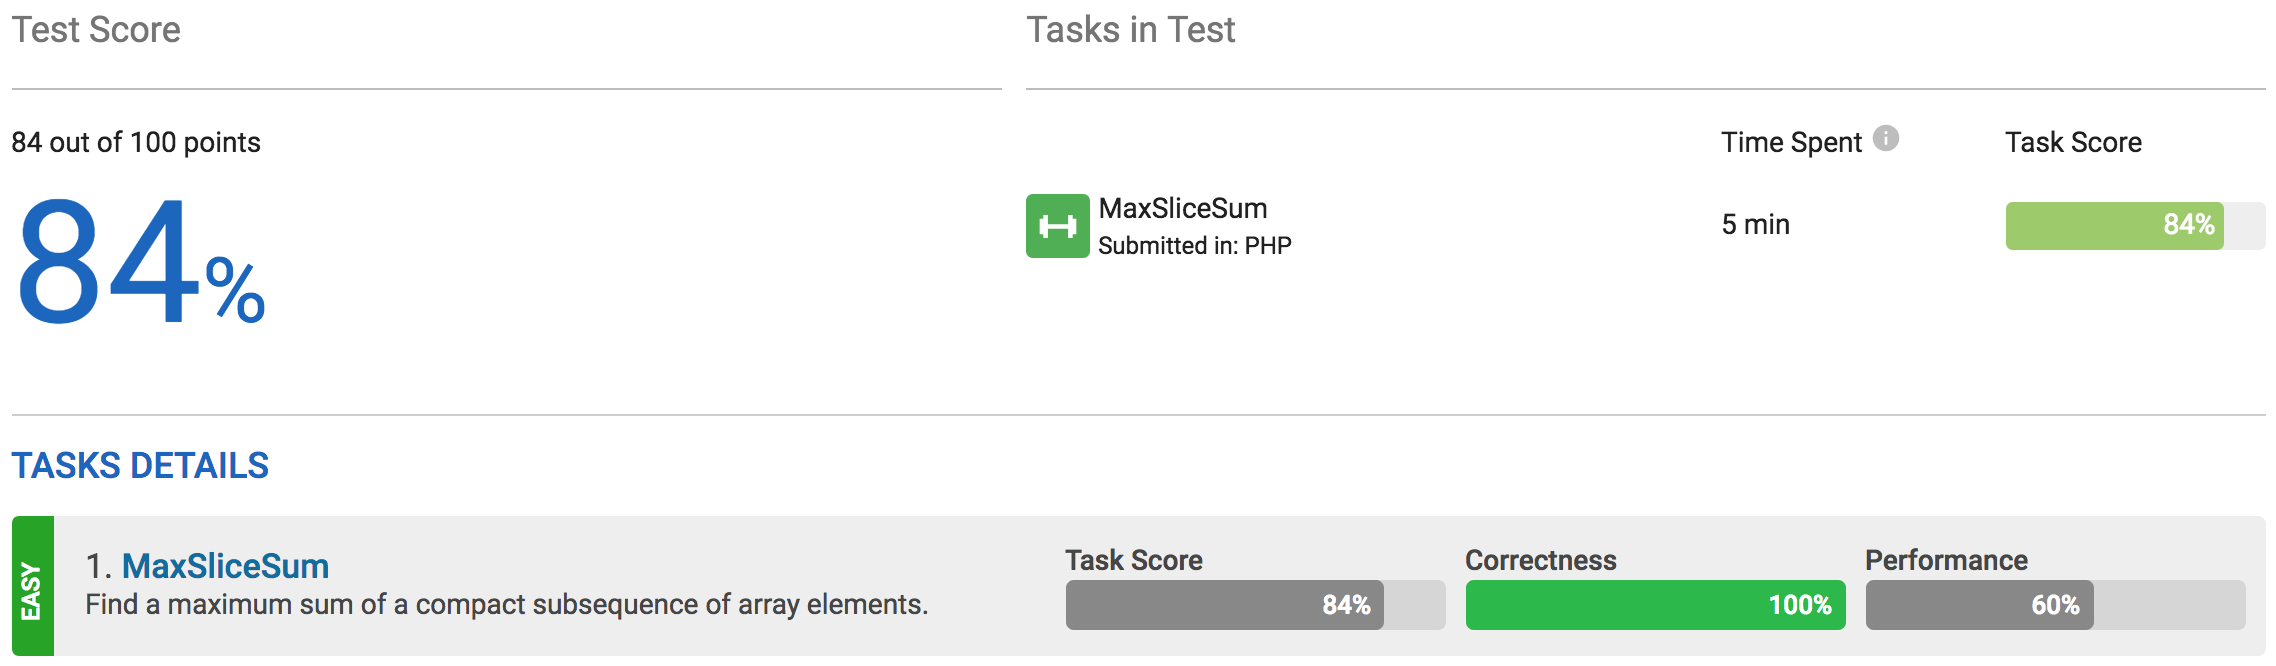
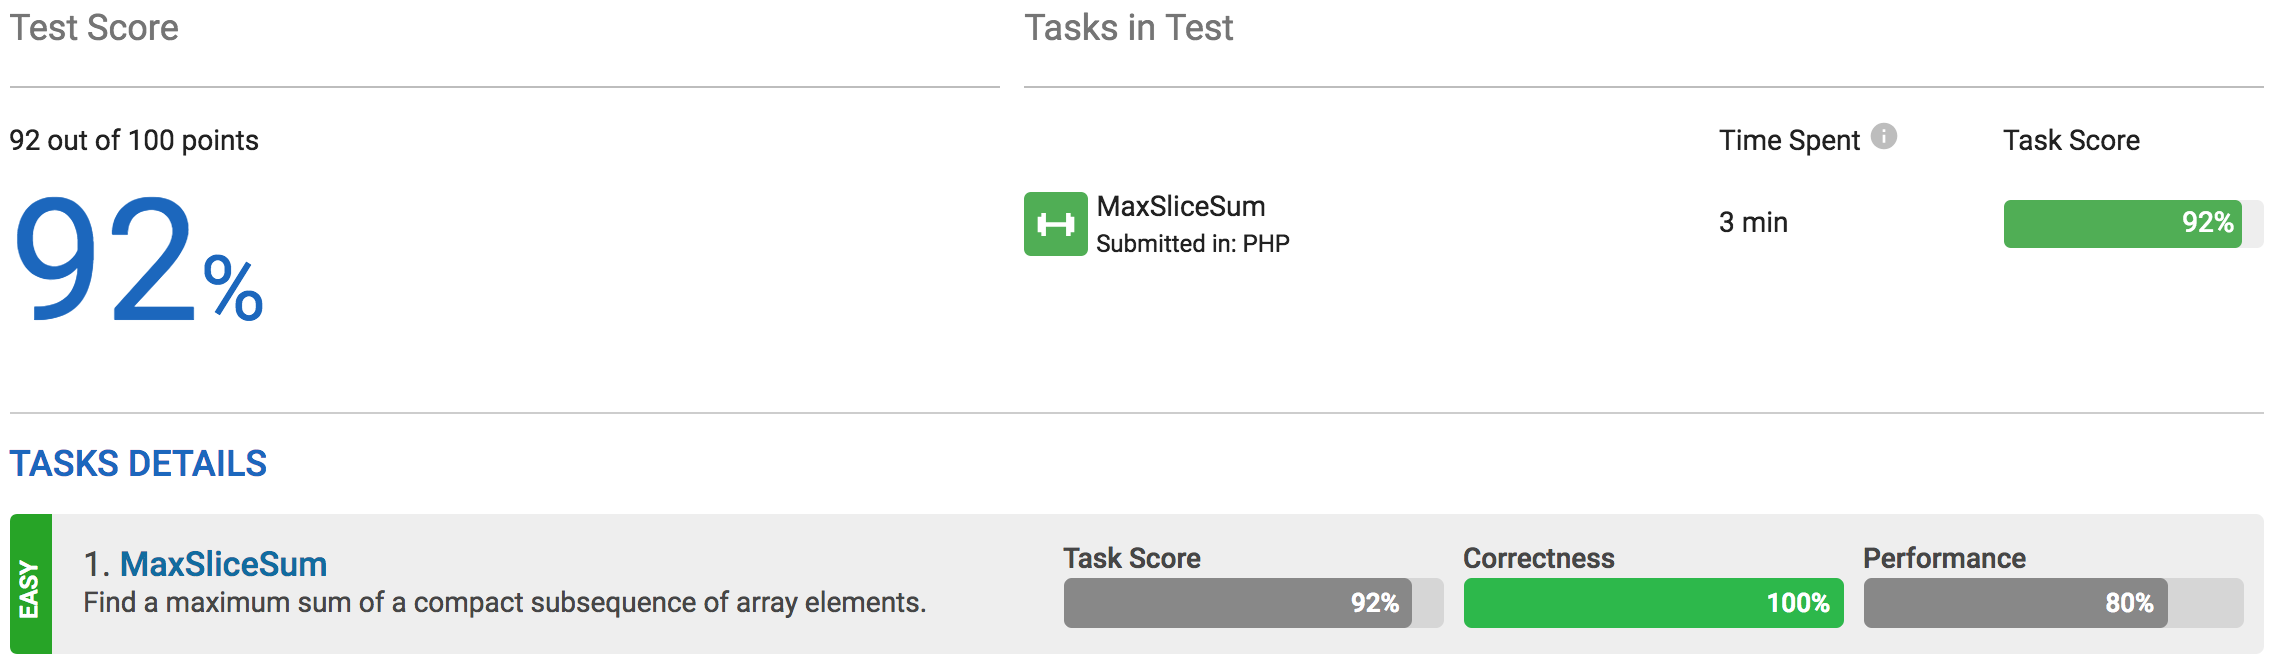
Result_5 for MaxSliceSum of Lesson_9_MaximumSliceProblem.

diff --git a/Lessons/9_MaximumSliceProblem/Tasks_MaxSliceSum/Answer.php b/Lessons/9_MaximumSliceProblem/Tasks_MaxSliceSum/Answer.php
@@ -11,16 +11,31 @@ function solution($A) {
     if ($arrLength === 1) return $A[0];
 
     $max = $A[0];
+    $negativeCount = 0;
 
     for ($i = 0; $i < $arrLength; $i++)
     {
         if ($A[$i] < -1000000 || $A[$i] > 1000000) return 0;
 
-        // take N element/time
+        if ($A[$i] === 0) continue;
+
+        if ($negativeCount !== 0 && $A[$i] < 0) continue;
+
         $tmp = 0;
 
+        // take N element/time
         for ($j = $i; $j < $arrLength; $j++)
         {
+            if ($A[$j] < 0)
+            {
+                if ($A[$j] > $max)
+                {
+                    $max = $A[$j];
+                }
+
+                $negativeCount++;
+            }
+
             if ($j === $i)
             {
                 $tmp = $A[$j];
@@ -35,6 +50,8 @@ function solution($A) {
                 $max = $tmp;
             }
         }
+
+        if ($negativeCount === $arrLength) break;
     }
 
     return $max;
